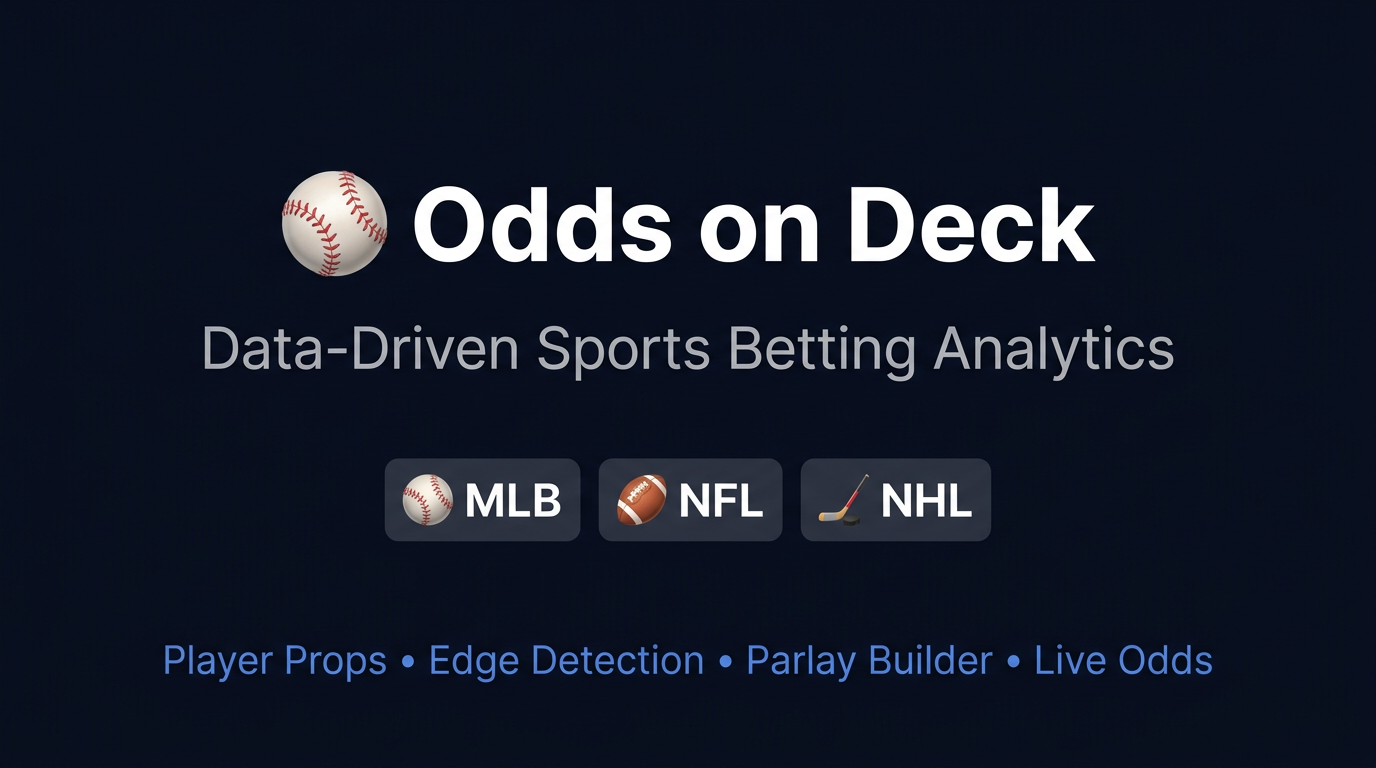
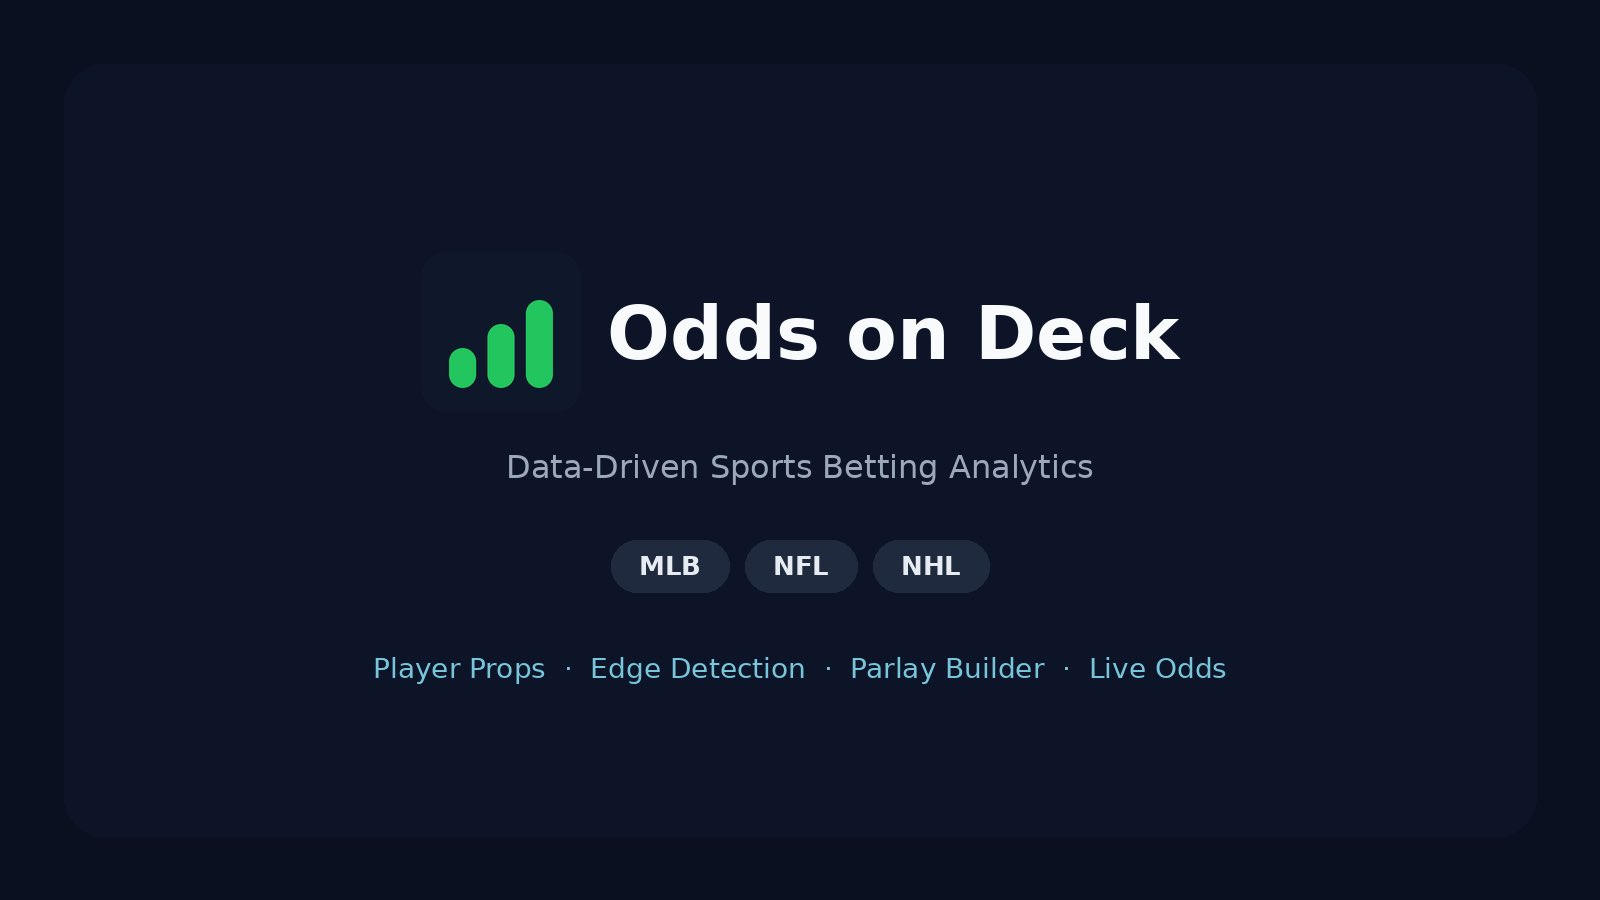
Replace OG image with brand mark (no baseball emoji).
Use the Twitter/LinkedIn green-bar graphic and update open-graph dimensions to 1600x900.

Changed region(s): [[0.125, 0.2188, 0.875, 0.5312], [0.2188, 0.5938, 0.7812, 0.7812], [0.0938, 0.8438, 0.875, 0.9062]]

diff --git a/lib/site-meta.js b/lib/site-meta.js
@@ -6,8 +6,8 @@ export const SITE_NAME = 'Odds on Deck'
 // with Content-Type image/png and a 0-byte body.
 export const OG_IMAGE = {
   url: '/og-image.png',
-  width: 1376,
-  height: 768,
+  width: 1600,
+  height: 900,
   alt: 'Odds on Deck — Data-Driven Sports Betting Analytics',
   type: 'image/png',
 }
